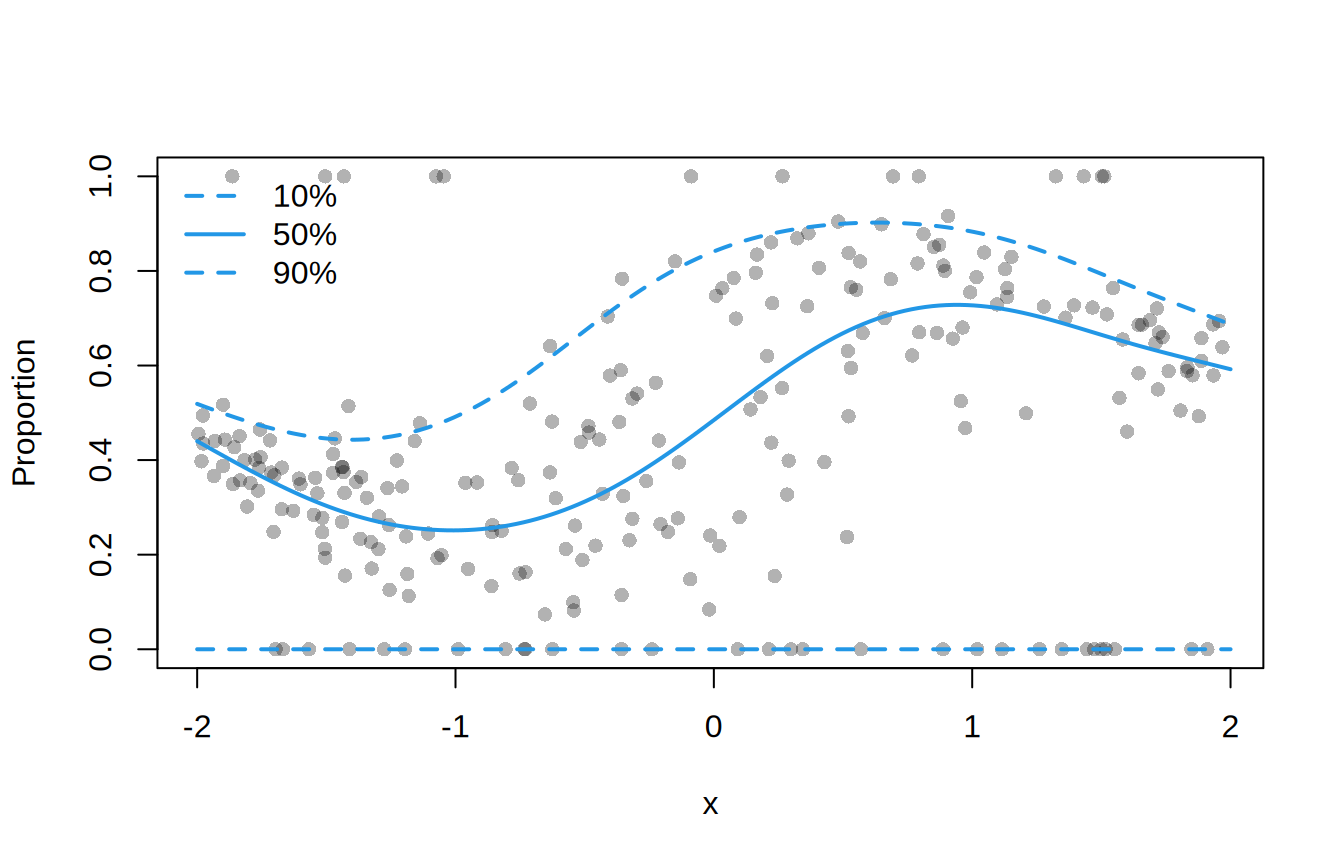
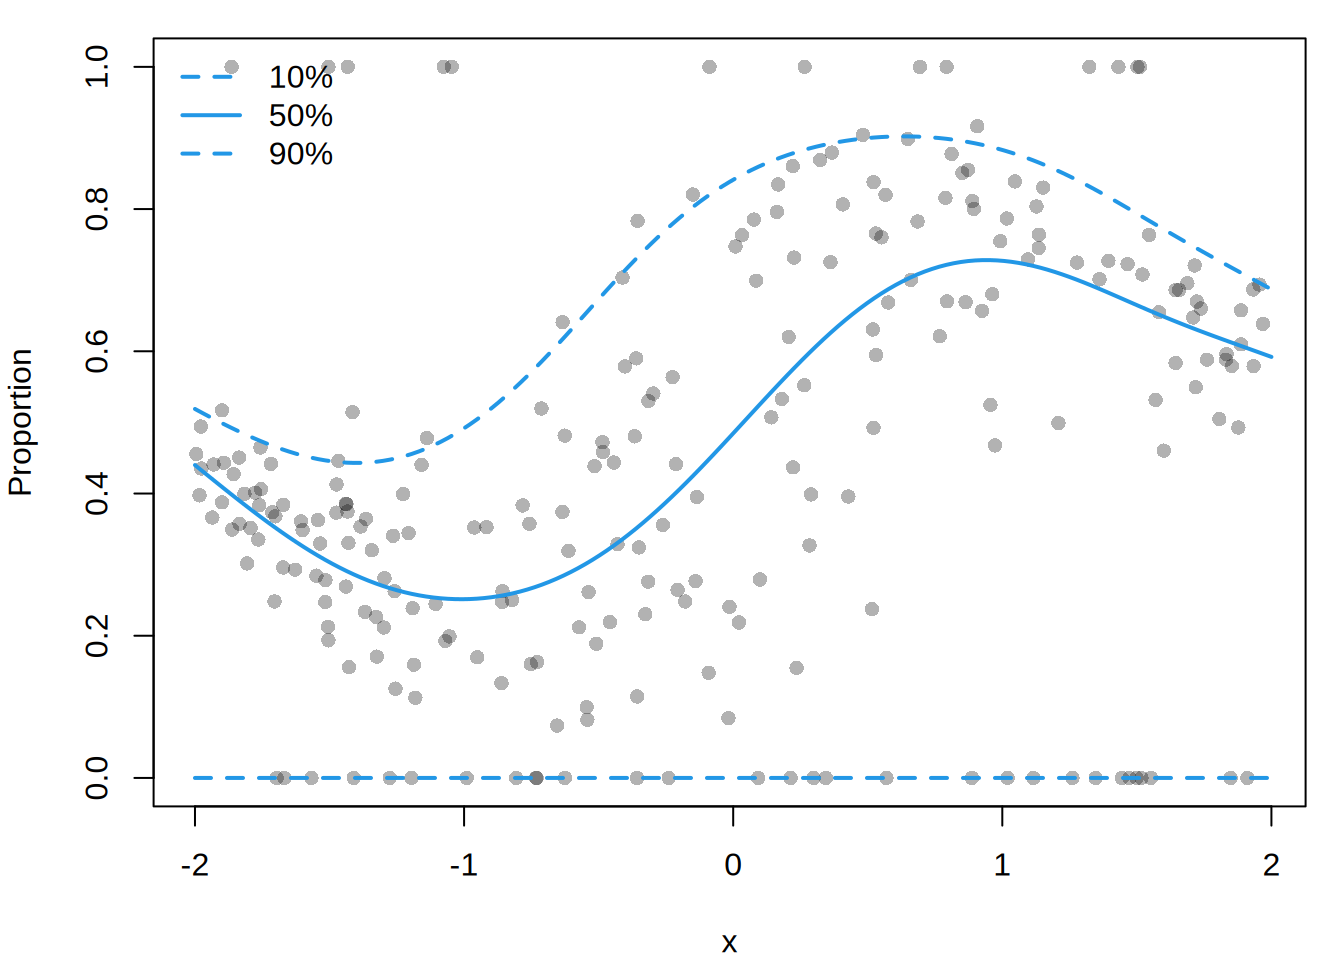
Deploying to gh-pages from @ gamlss-dev/gamlss2@d91d4a58b422cf1f9817fca584fd8362b06daf16 🚀

diff --git a/vignettes/family_extensions.html b/vignettes/family_extensions.html
@@ -875,12 +875,13 @@ fits$Inflated 2452.857  2</code></pre>
 <div class="code-copy-outer-scaffold"><div class="sourceCode cell-code" id="cb52"><pre class="sourceCode r code-with-copy"><code class="sourceCode r"><span id="cb52-1"><a href="#cb52-1" aria-hidden="true" tabindex="-1"></a>nd <span class="ot">&lt;-</span> <span class="fu">data.frame</span>(<span class="at">x =</span> <span class="fu">seq</span>(<span class="sc">-</span><span class="dv">2</span>, <span class="dv">2</span>, <span class="at">length.out =</span> <span class="dv">150</span>))</span>
 <span id="cb52-2"><a href="#cb52-2" aria-hidden="true" tabindex="-1"></a>q <span class="ot">&lt;-</span> <span class="fu">quantile</span>(m_01, <span class="at">newdata =</span> nd,</span>
 <span id="cb52-3"><a href="#cb52-3" aria-hidden="true" tabindex="-1"></a>  <span class="at">probs =</span> <span class="fu">c</span>(<span class="fl">0.1</span>, <span class="fl">0.5</span>, <span class="fl">0.9</span>))</span>
-<span id="cb52-4"><a href="#cb52-4" aria-hidden="true" tabindex="-1"></a><span class="fu">plot</span>(proportion <span class="sc">~</span> x, <span class="at">data =</span> dat,</span>
-<span id="cb52-5"><a href="#cb52-5" aria-hidden="true" tabindex="-1"></a>  <span class="at">pch =</span> <span class="dv">16</span>, <span class="at">col =</span> <span class="fu">adjustcolor</span>(<span class="dv">1</span>, <span class="fl">0.3</span>), <span class="at">ylab =</span> <span class="st">"Proportion"</span>)</span>
-<span id="cb52-6"><a href="#cb52-6" aria-hidden="true" tabindex="-1"></a><span class="fu">matlines</span>(nd<span class="sc">$</span>x, q,</span>
-<span id="cb52-7"><a href="#cb52-7" aria-hidden="true" tabindex="-1"></a>  <span class="at">lty =</span> <span class="fu">c</span>(<span class="dv">2</span>, <span class="dv">1</span>, <span class="dv">2</span>), <span class="at">lwd =</span> <span class="dv">2</span>, <span class="at">col =</span> <span class="dv">4</span>)</span>
-<span id="cb52-8"><a href="#cb52-8" aria-hidden="true" tabindex="-1"></a><span class="fu">legend</span>(<span class="st">"topleft"</span>, <span class="fu">c</span>(<span class="st">"10%"</span>, <span class="st">"50%"</span>, <span class="st">"90%"</span>),</span>
-<span id="cb52-9"><a href="#cb52-9" aria-hidden="true" tabindex="-1"></a>  <span class="at">lty =</span> <span class="fu">c</span>(<span class="dv">2</span>, <span class="dv">1</span>, <span class="dv">2</span>), <span class="at">lwd =</span> <span class="dv">2</span>, <span class="at">col =</span> <span class="dv">4</span>, <span class="at">bty =</span> <span class="st">"n"</span>)</span></code></pre></div><button title="Copy to Clipboard" class="code-copy-button"><i class="bi"></i></button></div>
+<span id="cb52-4"><a href="#cb52-4" aria-hidden="true" tabindex="-1"></a><span class="fu">par</span>(<span class="at">mar =</span> <span class="fu">c</span>(<span class="dv">4</span>, <span class="dv">4</span>, <span class="dv">1</span>, <span class="dv">1</span>))</span>
+<span id="cb52-5"><a href="#cb52-5" aria-hidden="true" tabindex="-1"></a><span class="fu">plot</span>(proportion <span class="sc">~</span> x, <span class="at">data =</span> dat,</span>
+<span id="cb52-6"><a href="#cb52-6" aria-hidden="true" tabindex="-1"></a>  <span class="at">pch =</span> <span class="dv">16</span>, <span class="at">col =</span> <span class="fu">adjustcolor</span>(<span class="dv">1</span>, <span class="fl">0.3</span>), <span class="at">ylab =</span> <span class="st">"Proportion"</span>)</span>
+<span id="cb52-7"><a href="#cb52-7" aria-hidden="true" tabindex="-1"></a><span class="fu">matlines</span>(nd<span class="sc">$</span>x, q,</span>
+<span id="cb52-8"><a href="#cb52-8" aria-hidden="true" tabindex="-1"></a>  <span class="at">lty =</span> <span class="fu">c</span>(<span class="dv">2</span>, <span class="dv">1</span>, <span class="dv">2</span>), <span class="at">lwd =</span> <span class="dv">2</span>, <span class="at">col =</span> <span class="dv">4</span>)</span>
+<span id="cb52-9"><a href="#cb52-9" aria-hidden="true" tabindex="-1"></a><span class="fu">legend</span>(<span class="st">"topleft"</span>, <span class="fu">c</span>(<span class="st">"10%"</span>, <span class="st">"50%"</span>, <span class="st">"90%"</span>),</span>
+<span id="cb52-10"><a href="#cb52-10" aria-hidden="true" tabindex="-1"></a>  <span class="at">lty =</span> <span class="fu">c</span>(<span class="dv">2</span>, <span class="dv">1</span>, <span class="dv">2</span>), <span class="at">lwd =</span> <span class="dv">2</span>, <span class="at">col =</span> <span class="dv">4</span>, <span class="at">bty =</span> <span class="st">"n"</span>)</span></code></pre></div><button title="Copy to Clipboard" class="code-copy-button"><i class="bi"></i></button></div>
 <div class="cell-output-display">
 <div>
 <figure class="figure">

diff --git a/vignettes/families.html b/vignettes/families.html
@@ -363,7 +363,7 @@ sigma.s(speed) 1.0000
 *--------
 n = 50 df =  4.44 res.df =  45.56
 Deviance = 396.3244 Null Dev. Red. = 14.92%
-AIC = 405.1972 elapsed =  0.06sec</code></pre>
+AIC = 405.1972 elapsed =  0.07sec</code></pre>
 </div>
 </div>
 <p><code>prodist()</code> performs the reverse operation: it extracts the fitted parameters and returns a vector of <code>distributions3</code> objects.</p>
@@ -409,10 +409,10 @@ AIC = 405.1972 elapsed =  0.06sec</code></pre>
 </div>
 <div class="code-copy-outer-scaffold"><div class="sourceCode cell-code" id="cb24"><pre class="sourceCode r code-with-copy"><code class="sourceCode r"><span id="cb24-1"><a href="#cb24-1" aria-hidden="true" tabindex="-1"></a><span class="fu">random</span>(d, <span class="dv">2</span>)</span></code></pre></div><button title="Copy to Clipboard" class="code-copy-button"><i class="bi"></i></button></div>
 <div class="cell-output cell-output-stdout">
-<pre><code>        r_1      r_2
-1  21.04466 21.05899
-2  39.11970 48.20825
-3 149.81454 98.01491</code></pre>
+<pre><code>         r_1       r_2
+1   3.915909  26.89503
+2  64.403534  54.94269
+3 180.335081 135.85139</code></pre>
 </div>
 </div>
 <p>This gives the complete workflow:</p>
@@ -612,7 +612,7 @@ sigma.s(Temp) 7.4969
 *--------
 n = 116 df =  20.63 res.df =  95.37
 Deviance = 899.7046 Null Dev. Red. = 16.93%
-AIC = 940.974 elapsed =  0.38sec</code></pre>
+AIC = 940.974 elapsed =  0.48sec</code></pre>
 </div>
 </div>
 <p>This pattern is useful when an existing distribution has the right likelihood but the wrong parameterization. A user-defined family can also be assembled directly as a <code>gamlss2.family</code>, as shown next.</p>
@@ -684,7 +684,7 @@ sigma.s(speed) 1.0000
 *--------
 n = 50 df =  4.44 res.df =  45.56
 Deviance = 396.3244 Null Dev. Red. = 14.92%
-AIC = 405.1972 elapsed =  0.02sec</code></pre>
+AIC = 405.1972 elapsed =  0.03sec</code></pre>
 </div>
 </div>
 <p>For a manually defined family, the minimum required interface is <code>family</code>, <code>names</code>, <code>links</code>, and <code>pdf()</code>. Derivative callbacks have the following shape:</p>

diff --git a/man/gamlss2.html b/man/gamlss2.html
@@ -826,7 +826,7 @@ sigma.s(Temp) 7.4969
 *--------
 n = 116 df =  20.63 res.df =  95.37
 Deviance = 899.7046 Null Dev. Red. = 16.93%
-AIC = 940.974 elapsed =  0.23sec</code></pre>
+AIC = 940.974 elapsed =  0.30sec</code></pre>
 </div>
 <div class="code-copy-outer-scaffold"><div class="sourceCode cell-code" id="cb6"><pre class="sourceCode r code-with-copy"><code class="sourceCode r"><span id="cb6-1"><a href="#cb6-1" aria-hidden="true" tabindex="-1"></a><span class="do">## plot parameter-specific effects</span></span>
 <span id="cb6-2"><a href="#cb6-2" aria-hidden="true" tabindex="-1"></a><span class="fu">plot</span>(m1, <span class="at">which =</span> <span class="st">"effects"</span>)</span></code></pre></div><button title="Copy to Clipboard" class="code-copy-button"><i class="bi"></i></button></div>
@@ -948,7 +948,7 @@ sigma.s(yday) 6.2095
 *--------
 n = 1057 df =  14.59 res.df =  1042.41
 Deviance = 10150.8818 Null Dev. Red. = 12.62%
-AIC = 10180.0654 elapsed =  0.09sec</code></pre>
+AIC = 10180.0654 elapsed =  0.12sec</code></pre>
 </div>
 <div class="code-copy-outer-scaffold"><div class="sourceCode cell-code" id="cb16"><pre class="sourceCode r code-with-copy"><code class="sourceCode r"><span id="cb16-1"><a href="#cb16-1" aria-hidden="true" tabindex="-1"></a><span class="do">## effect plots</span></span>
 <span id="cb16-2"><a href="#cb16-2" aria-hidden="true" tabindex="-1"></a><span class="fu">plot</span>(m2)</span></code></pre></div><button title="Copy to Clipboard" class="code-copy-button"><i class="bi"></i></button></div>

diff --git a/vignettes/specials.html b/vignettes/specials.html
@@ -251,7 +251,7 @@ sigma.s(Temp)         6.3894
 *--------
 n = 116 df =  16.78 res.df =  99.22
 Deviance = 919.5898 Null Dev. Red. = 15.09%
-AIC = 953.1434 elapsed =  0.18sec</code></pre>
+AIC = 953.1434 elapsed =  0.24sec</code></pre>
 </div>
 </div>
 <p>Specials can occur in any distributional parameter formula. They are refitted from the current working response and weights at each backfitting iteration, then centered before being added to the additive predictor. Centering keeps the intercept and the special term identifiable.</p>
@@ -354,7 +354,7 @@ sigma.s(Temp)           5.3016
 *--------
 n = 116 df =  13.08 res.df =  102.92
 Deviance = 937.2835 Null Dev. Red. = 13.46%
-AIC = 963.4356 elapsed =  0.06sec</code></pre>
+AIC = 963.4356 elapsed =  0.07sec</code></pre>
 </div>
 <div class="code-copy-outer-scaffold"><div class="sourceCode cell-code" id="cb6"><pre class="sourceCode r code-with-copy"><code class="sourceCode r"><span id="cb6-1"><a href="#cb6-1" aria-hidden="true" tabindex="-1"></a><span class="fu">predict</span>(m, <span class="at">newdata =</span> air[<span class="dv">1</span><span class="sc">:</span><span class="dv">5</span>, , <span class="at">drop =</span> <span class="cn">FALSE</span>])</span></code></pre></div><button title="Copy to Clipboard" class="code-copy-button"><i class="bi"></i></button></div>
 <div class="cell-output cell-output-stdout">

diff --git a/man/OL.html b/man/OL.html
@@ -782,7 +782,7 @@ Signif. codes:  0 '***' 0.001 '**' 0.01 '*' 0.05 '.' 0.1 ' ' 1
 *--------
 n = 72 df =  9 res.df =  63
 Deviance = 3479.1493 Null Dev. Red. = -2099.21%
-AIC = 3497.1493 elapsed =  0.02sec</code></pre>
+AIC = 3497.1493 elapsed =  0.03sec</code></pre>
 </div>
 <div class="code-copy-outer-scaffold"><div class="sourceCode cell-code" id="cb7"><pre class="sourceCode r code-with-copy"><code class="sourceCode r"><span id="cb7-1"><a href="#cb7-1" aria-hidden="true" tabindex="-1"></a><span class="do">## compare coefficients</span></span>
 <span id="cb7-2"><a href="#cb7-2" aria-hidden="true" tabindex="-1"></a><span class="fu">coef</span>(m1)</span></code></pre></div><button title="Copy to Clipboard" class="code-copy-button"><i class="bi"></i></button></div>

diff --git a/vignettes/firststeps.html b/vignettes/firststeps.html
@@ -366,7 +366,7 @@ sigma.s(yday)  5.092
 *--------
 n = 1057 df =  23.21 res.df =  1033.79
 Deviance = 10101.1641 Null Dev. Red. = 13.05%
-AIC = 10147.5794 elapsed =  0.07sec</code></pre>
+AIC = 10147.5794 elapsed =  0.09sec</code></pre>
 </div>
 </div>
 <p>Calling <code>plot()</code> without further arguments displays the estimated effects for all modeled distribution parameters.</p>
